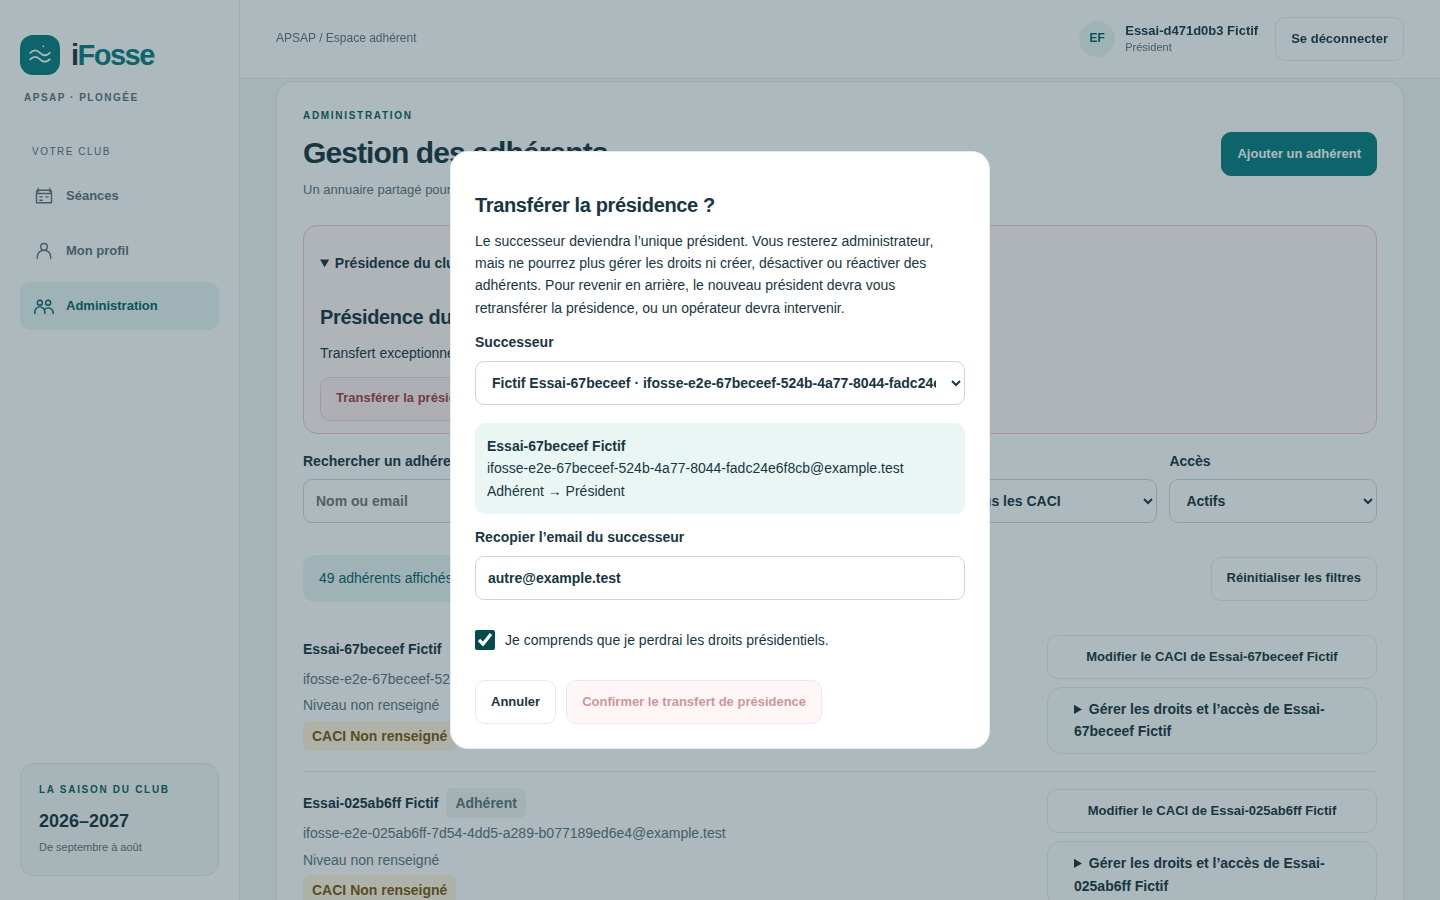
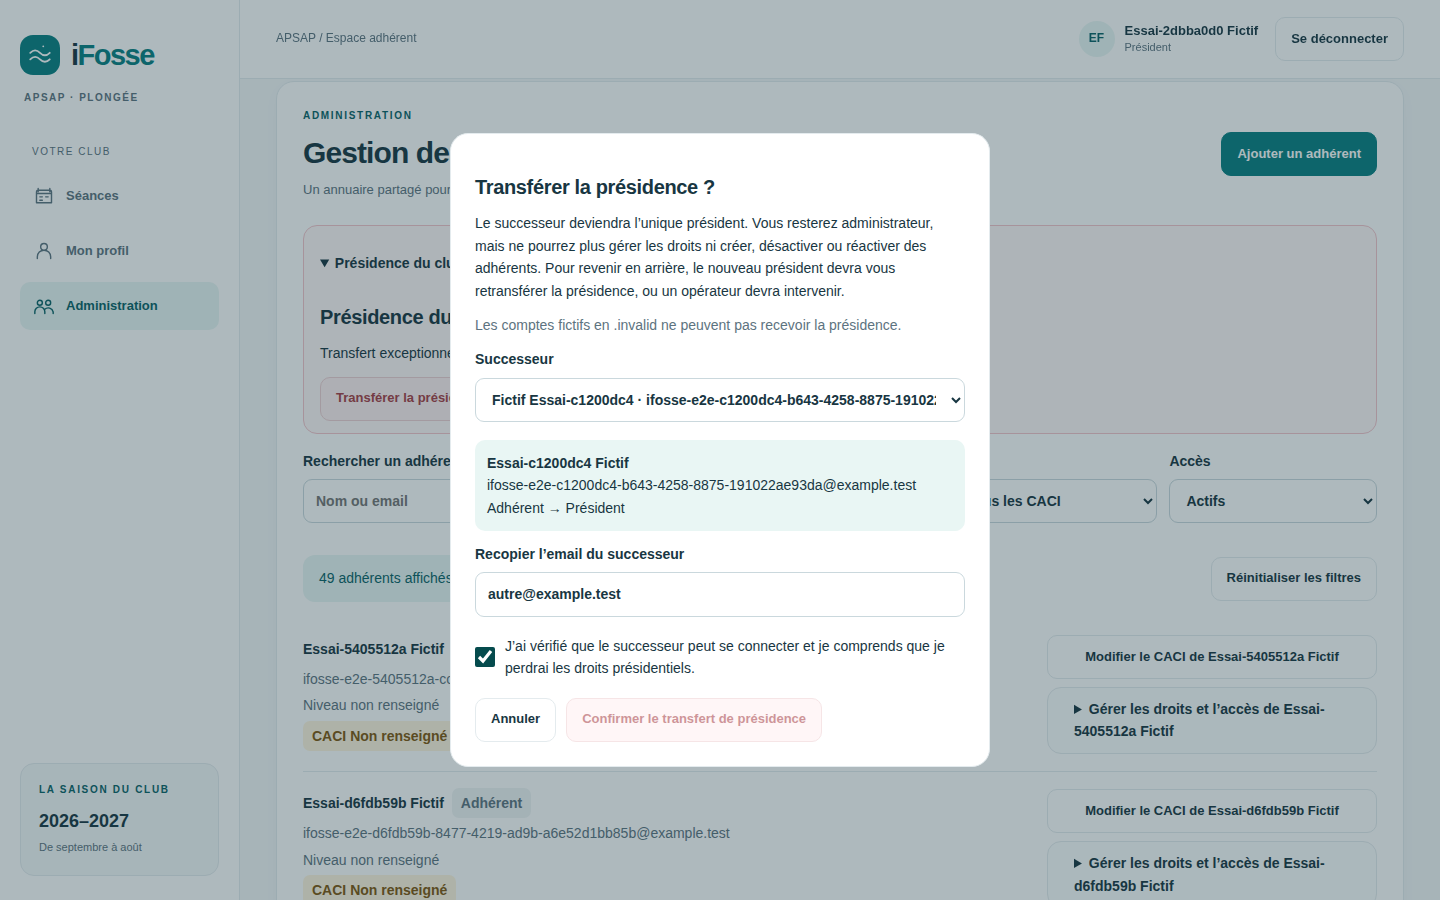
Exclude unroutable synthetic successors and require usability acknowledgement

diff --git a/src/features/profiles/PresidencyTransfer.tsx b/src/features/profiles/PresidencyTransfer.tsx
@@ -17,7 +17,7 @@ export function PresidencyTransfer({client,current,members,onReload,onTransferre
   const cancelButton=useRef<HTMLButtonElement>(null)
   const inFlight=useRef(false)
   const id=useId()
-  const eligible=(person:Member)=>person.id!==current.id && person.role!=='president' && !person.disabled_at && !!person.auth_user_id
+  const eligible=(person:Member)=>person.id!==current.id && person.role!=='president' && !person.disabled_at && !!person.auth_user_id && !person.email.endsWith('.invalid')
   const candidates=members.filter(eligible)
   const latest=members.find(person=>person.id===target?.id)
   const stale=!!target && (!latest || !eligible(latest) || latest.updated_at!==target.updated_at)
@@ -44,9 +44,9 @@ export function PresidencyTransfer({client,current,members,onReload,onTransferre
   return <details className="presidency-transfer"><summary>Présidence du club · transfert exceptionnel</summary><h2 id={`${id}-section`}>Présidence du club</h2><p>Transfert exceptionnel : vous deviendrez administrateur et perdrez les droits réservés au président.</p><button ref={trigger} type="button" className="danger" onClick={()=>onStart(()=>{select(null);setOpen(true)})}>Transférer la présidence</button>
     <dialog ref={dialog} aria-labelledby={`${id}-title`} aria-describedby={`${id}-warning`} onCancel={event=>{event.preventDefault();cancel()}}>
       <h2 id={`${id}-title`}>Transférer la présidence ?</h2><p id={`${id}-warning`}>Le successeur deviendra l’unique président. Vous resterez administrateur, mais ne pourrez plus gérer les droits ni créer, désactiver ou réactiver des adhérents. Pour revenir en arrière, le nouveau président devra vous retransférer la présidence, ou un opérateur devra intervenir.</p>
-      <label>Successeur<select disabled={busy} value={target?.id ?? ''} onChange={event=>select(candidates.find(person=>person.id===event.target.value) ?? null)}><option value="">Choisir un adhérent actif</option>{candidates.map(person=><option key={person.id} value={person.id}>{person.last_name} {person.first_name} · {person.email}</option>)}</select></label>
+      <p className="muted">Les comptes fictifs en .invalid ne peuvent pas recevoir la présidence.</p><label>Successeur<select disabled={busy} value={target?.id ?? ''} onChange={event=>select(candidates.find(person=>person.id===event.target.value) ?? null)}><option value="">Choisir un adhérent actif</option>{candidates.map(person=><option key={person.id} value={person.id}>{person.last_name} {person.first_name} · {person.email}</option>)}</select></label>
       {!candidates.length && <p>Aucun autre adhérent actif avec un compte de connexion n’est disponible.</p>}
-      {target && <><p className="presidency-successor"><strong>{target.first_name} {target.last_name}</strong><br />{target.email}<br />{target.role==='admin'?'Administrateur':'Adhérent'} → Président</p><label>Recopier l’email du successeur<input type="email" autoComplete="off" spellCheck={false} disabled={busy} value={email} onChange={event=>setEmail(event.target.value)} /></label><label className="check"><input type="checkbox" disabled={busy} checked={acknowledged} onChange={event=>setAcknowledged(event.target.checked)} />Je comprends que je perdrai les droits présidentiels.</label></>}
+      {target && <><p className="presidency-successor"><strong>{target.first_name} {target.last_name}</strong><br />{target.email}<br />{target.role==='admin'?'Administrateur':'Adhérent'} → Président</p><label>Recopier l’email du successeur<input type="email" autoComplete="off" spellCheck={false} disabled={busy} value={email} onChange={event=>setEmail(event.target.value)} /></label><label className="check"><input type="checkbox" disabled={busy} checked={acknowledged} onChange={event=>setAcknowledged(event.target.checked)} />J’ai vérifié que le successeur peut se connecter et je comprends que je perdrai les droits présidentiels.</label></>}
       {(stale || mustReload) && <p role="alert">Le choix doit être actualisé et confirmé à nouveau.{latest && eligible(latest) && <button type="button" disabled={busy} onClick={()=>select(latest)}>Actualiser le choix</button>}</p>}
       {error && <p role="alert">{error}</p>}
       <div className="actions"><button ref={cancelButton} type="button" autoFocus disabled={busy} onClick={cancel}>Annuler</button><button type="button" className="danger" disabled={busy || !target || stale || mustReload || !acknowledged || email.trim().toLowerCase()!==target?.email} onClick={()=>void transfer()}>{busy?'Transfert en cours…':'Confirmer le transfert de présidence'}</button></div>

diff --git a/src/features/profiles/PresidencyTransfer.test.tsx b/src/features/profiles/PresidencyTransfer.test.tsx
@@ -9,7 +9,7 @@ HTMLDialogElement.prototype.close=function(){this.removeAttribute('open')}
 afterEach(cleanup)
 const person=(id:string,role:Member['role']='member')=>({id,auth_user_id:`auth-${id}`,first_name:id,last_name:'Fictif',email:`${id.toLowerCase()}@example.test`,role,disabled_at:null,updated_at:'2026-10-08T10:00:00.123456+00:00'}) as Member
 const current=person('Président','president'),successor=person('Camille')
-function setup(members=[current,successor,person('Admin','admin'),{...person('Inactif'),disabled_at:'2026-10-01'},{...person('Sans compte'),auth_user_id:null}]) {
+function setup(members=[current,successor,person('Admin','admin'),{...person('Inactif'),disabled_at:'2026-10-01'},{...person('Sans compte'),auth_user_id:null},{...person('Seed'),email:'fictif@ifosse-seed.invalid'}]) {
  const rpc=vi.fn(async()=>({data:null,error:null}));const onReload=vi.fn(async()=>{}),onTransferred=vi.fn(async()=>{}),onAccessChanged=vi.fn(async()=>{})
  const props={client:{rpc} as unknown as SupabaseClient<Database>,current,members,onReload,onTransferred,onAccessChanged,onStart:(action:()=>void)=>action()}
  const view=render(<PresidencyTransfer {...props}/>);fireEvent.click(screen.getByText('Présidence du club · transfert exceptionnel'));fireEvent.click(screen.getByRole('button',{name:'Transférer la présidence'}))

diff --git a/docs/specs.md b/docs/specs.md
@@ -478,3 +478,5 @@ Abandonner un brouillon sélection/palanquées ouvre une confirmation accessible
 Administration présente une section distincte « Présidence du club » au président seulement. Le choix affiche nom/email ; confirmer nécessite de recopier l’email du successeur et reconnaître la perte des droits présidentiels. La création en cours demande d’abord confirmation d’abandon. Le successeur ne peut être soi-même, suspendu, sans compte Auth, banni, supprimé, non confirmé ou lié à une adresse Auth différente. CACI/niveau ne constituent pas une condition de gouvernance.
 
 La fiche affichée est figée jusqu’à confirmation ; toute modification impose un choix actualisé et une nouvelle confirmation. Une perte de droits ou un résultat réseau ambigu impose de réactualiser l’accès avant toute nouvelle tentative. Le transfert atomique est audité, laisse exactement un président et conserve toutes les données métier/seed. Le profil de l’ancien président est réactualisé immédiatement ; le nouveau rôle est effectif côté serveur même avec les anciens jetons, et les autres appareils utilisent le rafraîchissement existant. Annuler/Escape ne change rien. La récupération opérateur reste distincte.
+
+Précaution de transfert : les adresses fictives en `.invalid` sont exclues des choix et refusées par les deux RPC ; aucun marqueur ou enregistrement seed n’est modifié. La confirmation demande d’avoir vérifié que le successeur peut se connecter avec son lien habituel. Ce contrôle humain ne prétend pas garantir la délivrabilité de tout email. `.invalid` est réservé aux noms volontairement invalides ([RFC 2606](https://www.rfc-editor.org/rfc/rfc2606#section-2)). Les fixtures locales `example.test` restent utilisables via Mailpit ; elles ne doivent pas être utilisées comme successeurs réels hébergés.

diff --git a/docs/data-model.md b/docs/data-model.md
@@ -366,3 +366,5 @@ Migration `20261007210000_selection_comparison.sql` : deux RPC admin-only, `get_
 `20261008110000_presidency_transfer.sql` conserve `transfer_presidency(uuid)` et ajoute `transfer_presidency_if_current(uuid,timestamptz)`. Les deux RPC sont réservées à authenticated, puis réautorisent le président actif sous le verrou advisory `ifosse:identity`. La version UI verrouille et compare `members.updated_at` passé sans conversion Date ; `40001 / SUCCESSOR_CHANGED` impose une reconfirmation. La cible doit être active, liée à une identité Auth confirmée, non bannie/supprimée et avec email normalisé cohérent. Le profil et l’identité Auth cible sont verrouillés avant les deux changements de rôle.
 
 L’ancien président devient admin et le successeur président dans une seule transaction, avec l’événement `presidency_transferred` (acteur/cible/ancien rôle cible/nouveaux rôles). Toute erreur, y compris d’audit, annule les deux changements. Index d’unicité, contraintes du président actif, RLS, historique/seed et RPC de bootstrap/récupération restent inchangés. Aucun champ ni table n’est ajouté ; seules les fonctions et les types générés évoluent.
+
+Précaution de transfert : les adresses fictives en `.invalid` sont exclues des choix et refusées par les deux RPC ; aucun marqueur ou enregistrement seed n’est modifié. La confirmation demande d’avoir vérifié que le successeur peut se connecter avec son lien habituel. Ce contrôle humain ne prétend pas garantir la délivrabilité de tout email. `.invalid` est réservé aux noms volontairement invalides ([RFC 2606](https://www.rfc-editor.org/rfc/rfc2606#section-2)). Les fixtures locales `example.test` restent utilisables via Mailpit ; elles ne doivent pas être utilisées comme successeurs réels hébergés.

diff --git a/docs/member-management.md b/docs/member-management.md
@@ -62,3 +62,5 @@ Après confirmation, le successeur est l’unique président et l’ancien prés
 La fiche du successeur peut changer pendant la confirmation : **Actualiser le choix**, vérifier à nouveau puis ressaisir la confirmation. Un compte suspendu, sans Auth utilisable/confirmé, banni ou dont l’adresse Auth ne correspond pas à la fiche est refusé côté serveur. En cas de résultat réseau ambigu, vérifier les rôles après rafraîchissement avant de réessayer ; l’ancien président ne peut pas rejouer un transfert après son succès. L’audit enregistre acteur, successeur et rôles ; aucun historique de séance, paiement, présence, voiture, palanquée ou marqueur seed n’est modifié.
 
 **Staging :** appliquer `20261008110000_presidency_transfer.sql` avant d’utiliser ce bouton. La migration durcit la RPC historique (disponibilité Auth/profil) et ajoute `transfer_presidency_if_current(uuid,timestamptz)` avec comparaison de la fiche affichée. Aucun nouveau secret, hook ou Edge Function n’est nécessaire. Bootstrap/récupération opérateur restent disponibles ; production reste une opération distincte.
+
+Précaution de transfert : les adresses fictives en `.invalid` sont exclues des choix et refusées par les deux RPC ; aucun marqueur ou enregistrement seed n’est modifié. La confirmation demande d’avoir vérifié que le successeur peut se connecter avec son lien habituel. Ce contrôle humain ne prétend pas garantir la délivrabilité de tout email. `.invalid` est réservé aux noms volontairement invalides ([RFC 2606](https://www.rfc-editor.org/rfc/rfc2606#section-2)). Les fixtures locales `example.test` restent utilisables via Mailpit ; elles ne doivent pas être utilisées comme successeurs réels hébergés.

diff --git a/docs/decisions.md b/docs/decisions.md
@@ -301,3 +301,5 @@ Suspension is `members.disabled_at`, enforced both by current-member RLS/RPC aut
 **Decision (demande explicite du propriétaire) :** le président courant peut transférer la présidence à un autre adhérent ou admin actif disposant d’une identité Auth confirmée et utilisable. L’ancien président devient administrateur, conformément à la RPC existante ; l’unicité de la présidence est conservée. Ce parcours dédié ne permet pas de retirer simplement le rôle depuis l’éditeur ordinaire.
 
 L’interface distingue cette action exceptionnelle : identité du successeur, avertissement sur les droits perdus, email à recopier et reconnaissance explicite avant confirmation. Annuler/Escape ne fait rien. Une fiche modifiée demande actualisation/reconfirmation. Le serveur réautorise après verrou, vérifie disponibilité et identité, effectue les deux changements et leur audit atomiquement. Le retour nécessite un nouveau transfert par le nouveau président ou la récupération opérateur existante. Pas de nouveaux mots de passe, emails, signup ou secrets frontend.
+
+Précaution de transfert : les adresses fictives en `.invalid` sont exclues des choix et refusées par les deux RPC ; aucun marqueur ou enregistrement seed n’est modifié. La confirmation demande d’avoir vérifié que le successeur peut se connecter avec son lien habituel. Ce contrôle humain ne prétend pas garantir la délivrabilité de tout email. `.invalid` est réservé aux noms volontairement invalides ([RFC 2606](https://www.rfc-editor.org/rfc/rfc2606#section-2)). Les fixtures locales `example.test` restent utilisables via Mailpit ; elles ne doivent pas être utilisées comme successeurs réels hébergés.

diff --git a/docs/reviews/presidency-transfer/README.md b/docs/reviews/presidency-transfer/README.md
@@ -7,4 +7,6 @@ Recette locale avec 50 identités entièrement fictives `example.test`, préside
 
 Les captures sont prises après suppression du fragment Auth, sans token, donnée réelle, état de stockage, trace ou vidéo. Contrôles >=44px, aucun débordement horizontal, ouverture clavier, annulation/Escape et retour du focus contrôlés. La boîte reste défilable sur un écran plus petit.
 
+Les comptes fictifs `.invalid` sont exclus et refusés par le serveur ; la confirmation demande d’avoir vérifié que le successeur peut se connecter.
+
 Les tests vérifient le brouillon de création préservé/abandonné explicitement, la reconfirmation après modification réelle du CACI, les rôles réactualisés sans reconnexion, les anciens jetons privés de droits présidentiels, les données métier conservées, le double transfert et la suspension concurrents. Le serveur est validé sur la pile locale isolée seulement ; la migration `20261008110000_presidency_transfer.sql` doit être appliquée en staging avant recette hébergée. Aucun projet hébergé n’est modifié par cette validation.
